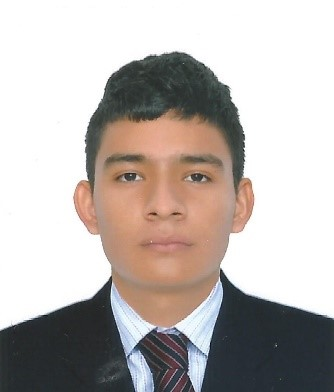
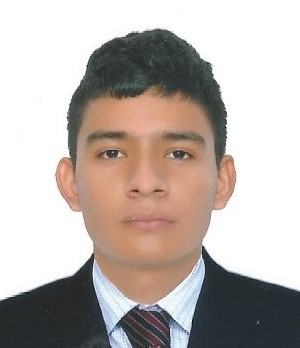
Cambio en foto2

diff --git a/index.html b/index.html
@@ -24,7 +24,7 @@ and open the template in the editor.
             <div id="marcoGris" >
             
             
-		    
+            <img src="img/Foto.jpg" width="110" hspace="110" height="143" vspace="40"'/>	
 	        
 
             </div>
